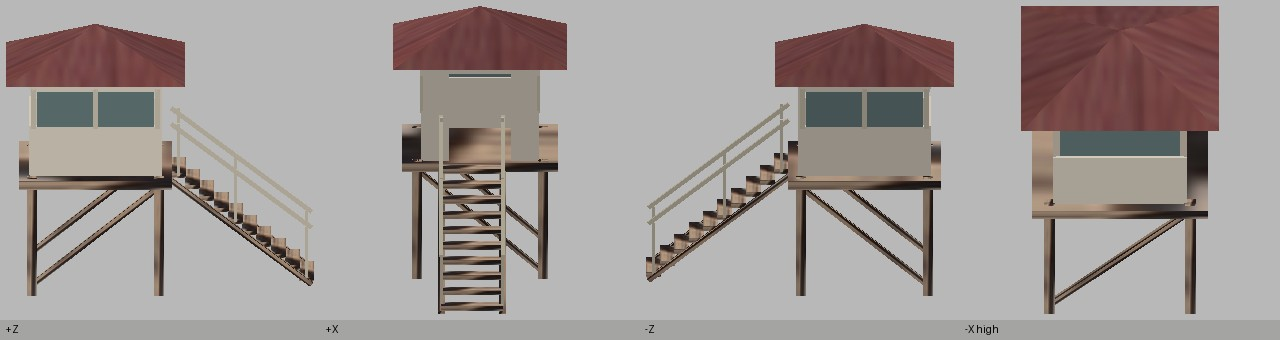
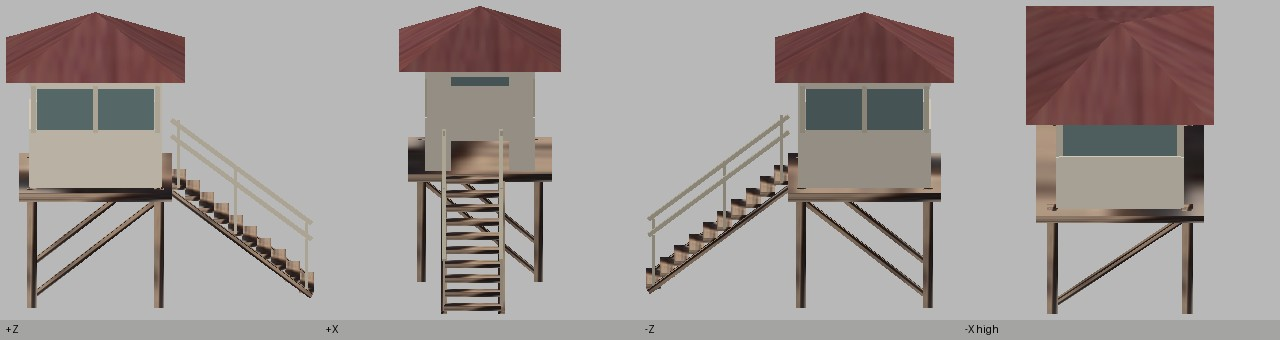
Clear the rescue cabin eaves for walkable beach stairs

diff --git a/asphalt-heat/tools/gameplay-test.js b/asphalt-heat/tools/gameplay-test.js
@@ -141,4 +141,31 @@ run(`
  assert(supplyAt(W-.5,W-.5).volts>220);isolated.power=true;
  w.pressure=.04;updateServiceGraph(1);assert.equal(pressureAtFixture(w.fixtures[0]),0);
 `);
+// Run the same on-foot collision resolver through the descending and ascending cabin stairs.
+const worldSource=read('js/world.js');
+run(worldSource.slice(worldSource.indexOf('function lrect('),worldSource.indexOf('const PASTEL=')));
+run(read('js/harbor.js'));
+run(read('js/props.js'));
+run(read('js/city-detail.js'));
+run(`
+ const STATIC=[];
+ function placeScenery(){}
+ detailFallback=()=>null;
+ for(const [z,angle] of [[30,0],[83,Math.PI]])buildBeachLookout(W+33,z,angle);
+ indexStatic();
+ for(const [z,angle] of [[30,0],[83,Math.PI]]){
+  const matrix=new THREE.Matrix4().makeRotationY(angle);matrix.setPosition(W+33,0,z);
+  const point=u=>new V3(u,0,.11).applyMatrix4(matrix);
+  let height=.02;
+  for(const desc of [false,true])for(let k=0;k<=78;k++){
+   const f=(desc?78-k:k)/78,p=point(lerp(2.84,-.78,f));
+   p.y=groundY(p.x,p.z,height);
+   assert(Math.abs(p.y-height)<.21,'coastal cabin tread at '+p.x+','+p.z+' changes height '+height+' to '+p.y);
+   assert.equal(collideWorld(p,.36),null,'coastal cabin rails, door and eaves must clear the player');
+   height=p.y;
+   if(!desc&&k===78)assert(Math.abs(height-2.002)<.001,'the stair lands inside the cabin');
+  }
+  assert(Math.abs(height-.02)<.002,'the return trip reaches the beach');
+ }
+`);
 console.log('Gameplay regressions passed.');

diff --git a/asphalt-heat/js/city-detail.js b/asphalt-heat/js/city-detail.js
@@ -224,7 +224,7 @@ function buildCityDetail(){
 function buildBeachLookout(x,z,yaw){
  const ground=.022,M=new THREE.Matrix4().makeRotationY(yaw);M.setPosition(x,0,z);
  const center=lpt(M,.26025,0);
- worksModel('rescue-hut',center.x,ground,center.z,[5.0205,4.3,2.84],yaw,false);
+ worksModel('rescue-hut',center.x,ground,center.z,[5.0205,4.6944,2.84],yaw,false);
  const box=(x0,x1,z0,z1,base,top,deck=false)=>{
   const r=lrect(M,x0,x1,-z1,-z0);
   STATIC.push({...r,y0:ground+base,h:ground+top,walkIgnore:deck});
@@ -237,10 +237,10 @@ function buildBeachLookout(x,z,yaw){
   for(const rz of [-.37,.63])box(cx-.116,cx+.116,rz-.026,rz+.026,top,top+.91);
  }
  for(const u of [-1.83,.25])for(const v of [-1.02,1.02])box(u-.08,u+.08,v-.08,v+.08,0,1.98);
- for(const v of [-.91,.91])box(-1.86,.28,v-.055,v+.055,1.98,3.63);
- box(-1.88,-1.77,-.92,.92,1.98,3.63);
- for(const v of [-.715,.715])box(.18,.295,v-.21,v+.21,1.98,3.63);
- box(-2.25,.67,-1.42,1.42,3.61,3.70);
+ for(const v of [-.91,.91])box(-1.86,.28,v-.055,v+.055,1.98,3.90);
+ box(-1.88,-1.77,-.92,.92,1.98,3.90);
+ for(const v of [-.715,.715])box(.18,.295,v-.21,v+.21,1.98,3.90);
+ box(-2.25,.67,-1.42,1.42,3.887,3.984);
 }
 
 function initRetailFascias(){
